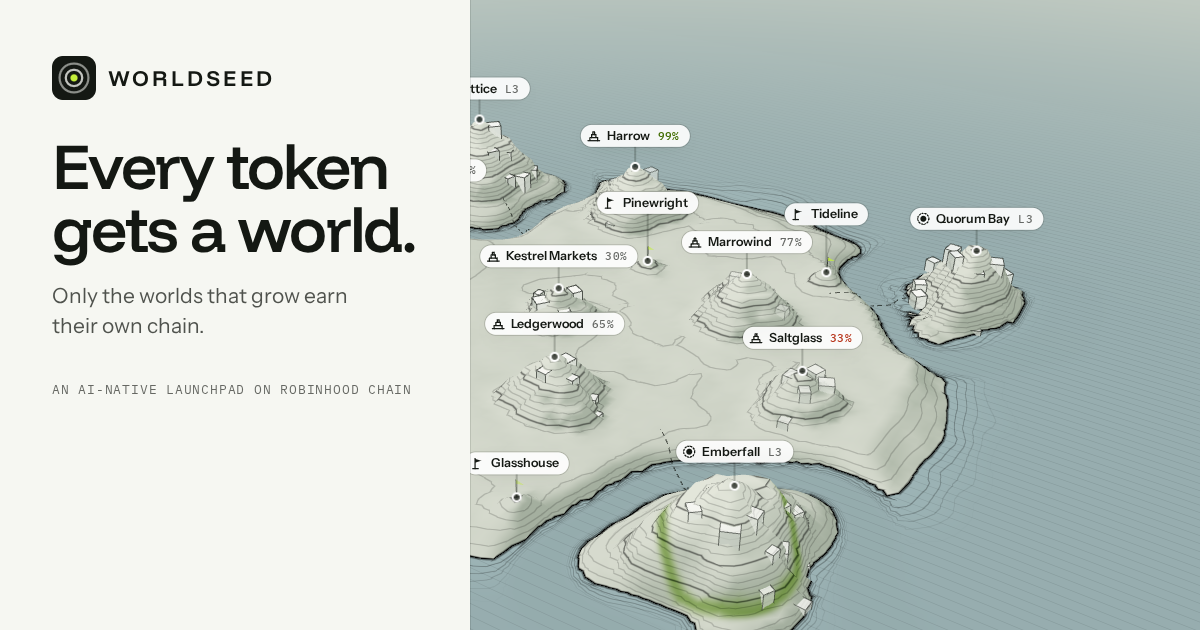
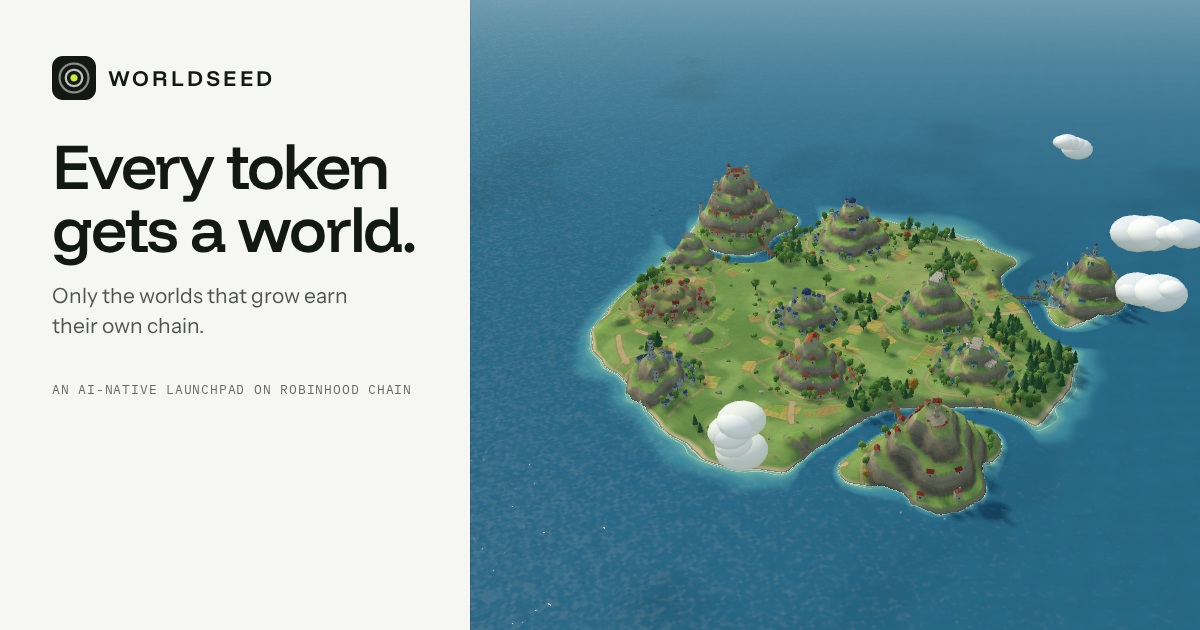
Map: the world rebuilt as a lit, living miniature
The Field moves from flat ink shaders to lit materials with real sun and
shadows. The land is drawn from a height texture on the GPU, so every slope,
terrace wall, beach and water depth is exact per pixel: meadows, stone terrace
walls, sand, turquoise shallows with surf, deep blue sea with glints.

Worlds are hill towns now: a landmark for each world type on a flat summit,
houses along the terraces, a footpath with lanterns, ring roads joined by
roads between worlds, fields around the foot. Sovereign islands get a timber
bridge that builds itself during the chain ceremony, a lighthouse and a pier.
Forests of swaying trees, rocks, lit boats with wakes, drifting clouds, birds,
chimney smoke; storms over failing worlds; sparks for proofs and fireworks for
a new chain. Night is moonlight with warm windows, lanterns and town glow.

A quality governor lowers resolution, then shadows, if frames run long.
Share images regenerated with the new world.

Claude-Session: https://claude.ai/code/session_01Jwk2KnbpKvkfKkn5eauoaY

diff --git a/src/field/atmos.ts b/src/field/atmos.ts
@@ -75,6 +75,14 @@ export class Atmos {
   private chimneys: { x: number; y: number; z: number }[] = []
   private time = { value: 0 }
   private m = new THREE.Matrix4()
+  // storms over worlds in trouble: a dark cloud and falling rain
+  private storms: { mesh: THREE.Mesh; x: number; z: number; y: number; k: number; goal: number }[] = []
+  private stormGeo = blobGeo(911)
+  private rain: THREE.InstancedMesh
+  private drops: { s: number; x: number; z: number; t: number }[] = []
+  // sparks: proofs rise green from a summit; a chain earned sets off fireworks
+  private sparks: THREE.InstancedMesh
+  private sparkList: { x: number; y: number; z: number; vx: number; vy: number; vz: number; t: number; life: number; c: THREE.Color }[] = []
 
   constructor(budget: 'high' | 'low') {
     const r = rand(2207)
@@ -121,6 +129,60 @@ export class Atmos {
     this.smoke = new THREE.InstancedMesh(new THREE.IcosahedronGeometry(0.16, 0), smokeMat, budget === 'high' ? 90 : 40)
     this.smoke.frustumCulled = false
     this.group.add(this.smoke)
+    // rain
+    const rainMat = new THREE.MeshBasicMaterial({ color: '#c9d6de', transparent: true, opacity: 0.55, depthWrite: false })
+    this.rain = new THREE.InstancedMesh(new THREE.BoxGeometry(0.02, 0.5, 0.02), rainMat, 160)
+    this.rain.frustumCulled = false
+    this.group.add(this.rain)
+    // sparks glow by themselves, day or night
+    const sparkMat = new THREE.MeshBasicMaterial({ color: '#ffffff', transparent: true, depthWrite: false, toneMapped: false })
+    this.sparks = new THREE.InstancedMesh(new THREE.OctahedronGeometry(0.12, 0), sparkMat, 220)
+    this.sparks.frustumCulled = false
+    this.sparks.instanceColor = new THREE.InstancedBufferAttribute(new Float32Array(220 * 3), 3)
+    this.group.add(this.sparks)
+  }
+
+  /** worlds in trouble get a storm: k from 0 (none) to 1 (a missed milestone) */
+  setStorms(list: { id: string; x: number; z: number; r: number; k: number }[]) {
+    const want = list.filter((s) => s.k > 0.5)
+    // keep existing clouds where they are; fade out the ones no longer needed
+    for (const st of this.storms) st.goal = want.some((w) => Math.hypot(w.x - st.x, w.z - st.z) < 0.5) ? 1 : 0
+    for (const w of want) {
+      if (this.storms.some((st) => Math.hypot(w.x - st.x, w.z - st.z) < 0.5)) continue
+      const mesh = new THREE.Mesh(this.stormGeo, new THREE.MeshLambertMaterial({ color: '#6b737a', emissive: '#3a4046', emissiveIntensity: 0.4, transparent: true, opacity: 0, depthWrite: false }))
+      mesh.scale.set(w.r * 0.2, 0.55, w.r * 0.2)
+      this.group.add(mesh)
+      // low over the town, so it reads as its own weather from any angle
+      this.storms.push({ mesh, x: w.x, z: w.z, y: 6.5 + w.r * 0.25, k: 0, goal: 1 })
+    }
+  }
+
+  /** a burst of sparks at a point: 'proof' rises green, 'bad' falls red, 'big' is a firework */
+  burst(x: number, y: number, z: number, kind: 'proof' | 'bad' | 'big') {
+    const colors = kind === 'big' ? ['#c4ef3a', '#ffd76a', '#ffffff', '#7fd3ff'] : kind === 'bad' ? ['#ff7a5a', '#d2553a'] : ['#c4ef3a', '#e6ff9a']
+    const n = kind === 'big' ? 46 : 16
+    const h = kind === 'big' ? y + 7 + Math.random() * 3 : y + 0.6
+    for (let i = 0; i < n; i++) {
+      if (this.sparkList.length >= this.sparks.count) this.sparkList.shift()
+      const a = Math.random() * Math.PI * 2, e = Math.random() * Math.PI
+      const sp = kind === 'big' ? 3 + Math.random() * 2.5 : 0.6 + Math.random() * 0.8
+      this.sparkList.push({
+        x: x + (kind === 'big' ? 0 : (Math.random() - 0.5) * 1.2),
+        y: h,
+        z: z + (kind === 'big' ? 0 : (Math.random() - 0.5) * 1.2),
+        vx: kind === 'big' ? Math.cos(a) * Math.sin(e) * sp : Math.cos(a) * 0.25,
+        vy: kind === 'big' ? Math.cos(e) * sp : kind === 'bad' ? -0.4 : sp * 1.6,
+        vz: kind === 'big' ? Math.sin(a) * Math.sin(e) * sp : Math.sin(a) * 0.25,
+        t: 0,
+        life: kind === 'big' ? 1.6 + Math.random() * 0.8 : 1.2 + Math.random() * 0.6,
+        c: new THREE.Color(colors[i % colors.length]),
+      })
+    }
+  }
+
+  /** anything short-lived still running (sparks), so the engine keeps drawing */
+  busy() {
+    return this.sparkList.length > 0 || this.storms.some((s) => Math.abs(s.k - s.goal) > 0.01)
   }
 
   /** where smoke rises from: the tops of chimneys, collected from the towns */
@@ -188,6 +250,72 @@ export class Atmos {
     }
     this.smoke.instanceMatrix.needsUpdate = true
     ;(this.smoke.material as THREE.MeshLambertMaterial).opacity = 0.5 * (1 - night * 0.6)
+
+    // storms gather and clear slowly; rain falls under the ones that are here
+    for (const st of this.storms) {
+      st.k += (st.goal - st.k) * Math.min(1, dt * 0.6)
+      st.mesh.position.set(st.x + Math.sin(t * 0.2) * 0.6, st.y, st.z + Math.cos(t * 0.17) * 0.6)
+      ;(st.mesh.material as THREE.MeshLambertMaterial).opacity = st.k * 0.93
+      st.mesh.visible = st.k > 0.01
+    }
+    this.storms = this.storms.filter((st) => {
+      if (st.goal === 0 && st.k < 0.01) {
+        this.group.remove(st.mesh)
+        ;(st.mesh.material as THREE.Material).dispose()
+        return false
+      }
+      return true
+    })
+    const live = this.storms.filter((st) => st.k > 0.2)
+    if (this.drops.length !== this.rain.count) this.drops = Array.from({ length: this.rain.count }, (_, i) => ({ s: i, x: Math.random() - 0.5, z: Math.random() - 0.5, t: Math.random() }))
+    for (let i = 0; i < this.rain.count; i++) {
+      const st = live[i % Math.max(1, live.length)]
+      const d = this.drops[i]
+      if (!st) {
+        this.m.makeScale(0, 0, 0)
+        this.rain.setMatrixAt(i, this.m)
+        continue
+      }
+      d.t += dt * 0.9
+      if (d.t > 1) {
+        d.t -= 1
+        d.x = Math.random() - 0.5
+        d.z = Math.random() - 0.5
+      }
+      const span = st.mesh.scale.x * 4.5
+      p.set(st.mesh.position.x + d.x * span, st.y - 0.5 - d.t * (st.y - 0.5), st.mesh.position.z + d.z * span)
+      this.m.compose(p, q.identity(), s.setScalar(st.k))
+      this.rain.setMatrixAt(i, this.m)
+    }
+    this.rain.instanceMatrix.needsUpdate = true
+    this.rain.visible = live.length > 0
+
+    // sparks fly, slow, fall and fade
+    this.sparkList = this.sparkList.filter((sp) => (sp.t += dt / sp.life) < 1)
+    const col = new THREE.Color()
+    for (let i = 0; i < this.sparks.count; i++) {
+      const sp = this.sparkList[i]
+      if (!sp) {
+        this.m.makeScale(0, 0, 0)
+        this.sparks.setMatrixAt(i, this.m)
+        continue
+      }
+      const drag = Math.pow(0.35, dt)
+      sp.vx *= drag
+      sp.vz *= drag
+      sp.vy = sp.vy * drag - 1.6 * dt
+      sp.x += sp.vx * dt
+      sp.y += sp.vy * dt
+      sp.z += sp.vz * dt
+      p.set(sp.x, sp.y, sp.z)
+      this.m.compose(p, q.identity(), s.setScalar((1 - sp.t) * (1.1 - sp.t * 0.4)))
+      this.sparks.setMatrixAt(i, this.m)
+      col.copy(sp.c).multiplyScalar(1.6)
+      this.sparks.setColorAt(i, col)
+    }
+    this.sparks.instanceMatrix.needsUpdate = true
+    if (this.sparks.instanceColor) this.sparks.instanceColor.needsUpdate = true
+    this.sparks.visible = this.sparkList.length > 0
     return true
   }
 

diff --git a/src/field/engine.ts b/src/field/engine.ts
@@ -114,13 +114,20 @@ export class FieldEngine {
   /** a timed flight from one view to the next: lift, travel, settle. Any touch cancels it */
   private flight: { from: Cam; t0: number; dur: number; lift: number } | null = null
   private lastRender = 0
+  /**
+   * The quality governor: if frames run long it lowers the render resolution a step at a
+   * time and, as a last resort, turns shadows off; with plenty of headroom it steps back up.
+   */
+  private perf = { ema: 16, slow: 0, fast: 0, ratio: 1, max: 1, shadows: true }
   private district: { input: DistrictInput; d: District; shown: number } | null = null
 
   constructor(container: HTMLElement, quality: 'high' | 'low') {
     this.quality = quality
     this.renderer = new THREE.WebGLRenderer({ antialias: true, powerPreference: quality === 'high' ? 'high-performance' : 'default' })
     // phones have dense screens; 1.5x is sharp enough for ink lines and halves the pixel work of 3x
-    this.renderer.setPixelRatio(Math.min(window.devicePixelRatio || 1, quality === 'high' ? 1.75 : 1.5))
+    this.perf.max = Math.min(window.devicePixelRatio || 1, quality === 'high' ? 1.75 : 1.5)
+    this.perf.ratio = this.perf.max
+    this.renderer.setPixelRatio(this.perf.ratio)
     this.canvas = this.renderer.domElement
     this.canvas.style.cssText = 'position:absolute;inset:0;width:100%;height:100%;display:block;touch-action:none'
     container.appendChild(this.canvas)
@@ -195,6 +202,7 @@ export class FieldEngine {
       this.lastMoat.set(w.id, w.hill.moat)
     }
     this.syncSettlements()
+    this.atmos.setStorms(this.worlds.map((w) => ({ id: w.id, x: w.hill.x, z: w.hill.z, r: w.hill.radius, k: w.trouble })))
     const real = this.worlds.filter((w) => w.id !== 'draft')
     // a plot being planted is cleared of trees
     const draft = this.worlds.find((w) => w.id === 'draft')
@@ -400,6 +408,7 @@ export class FieldEngine {
     if (!w) return
     const inside = this.district && this.view.kind === 'district' && this.view.id === id && kind === 'proof'
     const at = inside ? this.district!.d.pingSpot() : { x: w.hill.x, z: w.hill.z }
+    if (!this.reduced) this.atmos.burst(at.x, heightAt(at.x, at.z, this.hills()) + 1.5, at.z, kind)
     const scale = inside ? 0.32 : kind === 'big' ? 2.4 : kind === 'bad' ? -1.4 : 1
     this.pings = [...this.pings.slice(-7), { ...at, at: performance.now(), scale }]
     this.wake()
@@ -631,6 +640,7 @@ export class FieldEngine {
       u.uTrouble.value[i] = s.trouble
       const c = this.ceremonies.get(w.id)
       if (c !== undefined && now - c > 12_000) this.ceremonies.delete(w.id)
+      else if (c !== undefined && !this.reduced && Math.random() < dt * 1.4) this.atmos.burst(w.hill.x + (Math.random() - 0.5) * w.hill.radius, s.height, w.hill.z + (Math.random() - 0.5) * w.hill.radius, 'big')
     })
     // settlements appear once their hill has grown into place
     for (const w of this.worlds) {
@@ -688,6 +698,7 @@ export class FieldEngine {
     if (!this.reduced && this.life.step(dt)) moving = true
     // with reduced motion the air holds still, but is still drawn where it is
     if (this.atmos.step(this.reduced ? 0 : dt, this.reduced ? 0 : (now - this.t0) / 1000, this.camera.position, this.night.k) && !this.reduced) moving = true
+    if (this.atmos.busy()) moving = true
 
     this.pings = this.pings.filter((p) => now - p.at < (Math.abs(p.scale) > 1.2 ? 3600 : 2400))
     for (let i = 0; i < 8; i++) {
@@ -703,6 +714,8 @@ export class FieldEngine {
       if (!document.hidden) this.wake()
       return
     }
+    // frame time while drawing continuously, for the governor
+    if (now - this.lastRender < 250) this.govern(now - this.lastRender)
     this.lastRender = now
 
     // camera
@@ -878,6 +891,43 @@ export class FieldEngine {
       },
       { passive: false },
     )
+  }
+
+  private govern(ms: number) {
+    const p = this.perf
+    p.ema += (ms - p.ema) * 0.05
+    if (p.ema > 26) {
+      p.slow++
+      p.fast = 0
+    } else if (p.ema < 13) {
+      p.fast++
+      p.slow = 0
+    } else {
+      p.slow = Math.max(0, p.slow - 1)
+      p.fast = Math.max(0, p.fast - 1)
+    }
+    // about two seconds of slow frames: give something up
+    if (p.slow > 90) {
+      p.slow = 0
+      if (p.ratio > 1) p.ratio = Math.max(1, p.ratio - 0.25)
+      else if (p.shadows) {
+        p.shadows = false
+        this.sky.sun.castShadow = false
+      } else return
+      this.renderer.setPixelRatio(p.ratio)
+      this.resize()
+    }
+    // about eight seconds of easy frames: take some back
+    if (p.fast > 480) {
+      p.fast = 0
+      if (!p.shadows) {
+        p.shadows = true
+        this.sky.sun.castShadow = true
+      } else if (p.ratio < p.max) p.ratio = Math.min(p.max, p.ratio + 0.25)
+      else return
+      this.renderer.setPixelRatio(p.ratio)
+      this.resize()
+    }
   }
 
   private zoom(f: number) {

diff --git a/src/field/kit.ts b/src/field/kit.ts
@@ -29,7 +29,7 @@ export const PALETTES: Record<Template, { walls: string[]; roof: string; trim: s
 }
 const GLASS = new THREE.Color('#3d5360')
 const BRAND = new THREE.Color('#b9e536')
-export const LAMP = new THREE.Color('#ffc66e')
+const LAMP = new THREE.Color('#ffc66e')
 const LAMP_DAY = new THREE.Color('#f1e3b8')
 const WOOD = new THREE.Color('#8c6a47')
 
@@ -388,7 +388,7 @@ export interface Site {
 }
 
 /** a hipped roof rising to a point over a w×d footprint */
-export function pyramid(b: Builder, f: Frame, y: number, w: number, d: number, h: number, tone: Tone = 'roof') {
+function pyramid(b: Builder, f: Frame, y: number, w: number, d: number, h: number, tone: Tone = 'roof') {
   const e = [P(f, -w, -d, y), P(f, w, -d, y), P(f, w, d, y), P(f, -w, d, y)]
   const top = P(f, 0, 0, y + h)
   for (let i = 0; i < 4; i++) {
@@ -398,7 +398,7 @@ export function pyramid(b: Builder, f: Frame, y: number, w: number, d: number, h
 }
 
 /** a pennant on a pole, in the world's roof colour */
-export function flagpole(b: Builder, x: number, z: number, y0: number, h: number) {
+function flagpole(b: Builder, x: number, z: number, y0: number, h: number) {
   b.edge([x, y0, z], [x, y0 + h, z])
   box(b, { x, z, rot: 0 }, y0, 0.02, 0.02, h, { roof: 'trim', windows: false, edges: false })
   b.tri([x, y0 + h, z], [x + 0.5, y0 + h - 0.13, z + 0.05], [x, y0 + h - 0.28, z], 'roof')

diff --git a/src/field/ground.ts b/src/field/ground.ts
@@ -20,7 +20,7 @@ export const HALF = 100
 const glsl = String.raw
 
 /** the colours of the ground, by day (night is the same land under different light) */
-export const GROUND = {
+const GROUND = {
   grassDark: '#7ba65a',
   grass: '#97bf68',
   grassLight: '#b3d27d',
@@ -213,7 +213,7 @@ const groundColor = glsl`
     // a soft ring of light around the world in focus, at the foot of its hill
     halo = max(halo, exp(-pow((t - 1.1) / .028, 2.)) * m.z);
     // after dark, a lived-in world lights the ground around its buildings
-    lamps += uGlow[i] * exp(-t * t * 5.) * (1. - m.w * .8);
+    lamps += uGlow[i] * exp(-t * t * 6.) * (1. - m.w * .8);
   }
 
   if (gh >= 0.) {
@@ -315,7 +315,9 @@ const groundColor = glsl`
   }
 
   // night: warm light around lived-in worlds
-  glow += uLamp * min(lamps, 1.) * uNight * .02 * (gh >= 0. ? 1. : .4);
+  // from far away, a lived-in world reads as a warm glow; close up, its windows and lanterns take over
+  float far_ = smoothstep(50., 130., length(cameraPosition - vW));
+  glow += uLamp * min(lamps, 1.) * uNight * mix(.02, .07, far_) * (gh >= 0. ? 1. : .4);
 
   diffuseColor.rgb = col;
   vec3 gNormalView = normalize((viewMatrix * vec4(gn, 0.)).xyz);

diff --git a/src/field/sky.ts b/src/field/sky.ts
@@ -14,9 +14,9 @@ import * as THREE from 'three'
 
 const glsl = String.raw
 
-export const SKY = {
+const SKY = {
   day: { top: '#7fb9df', horizon: '#d9ecf2', sun: '#fff1d6', sunI: 2.15, skyLight: '#cfe6f5', groundLight: '#7e9a5a', hemiI: 1.15, fog: '#cfe3ea' },
-  night: { top: '#070d1d', horizon: '#1b2c46', sun: '#9dbcf0', sunI: 0.8, skyLight: '#3b5688', groundLight: '#121a16', hemiI: 0.85, fog: '#14213a' },
+  night: { top: '#08101f', horizon: '#20324f', sun: '#a9c4f2', sunI: 1.0, skyLight: '#48649c', groundLight: '#141c18', hemiI: 1.0, fog: '#172540' },
 }
 
 const domeVS = glsl`
